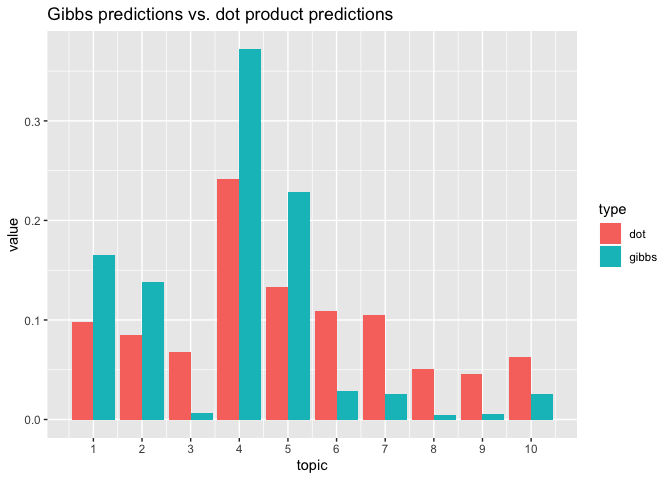
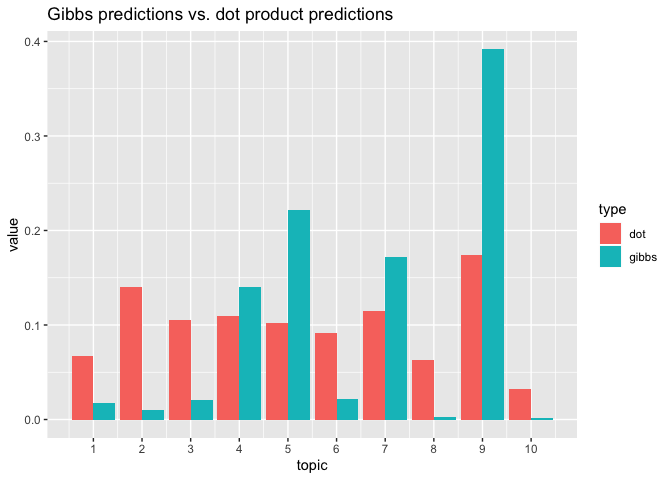
update readme to explicitly call tidylda::update to avoid clashes with stats::update

diff --git a/README.md b/README.md
@@ -70,12 +70,12 @@ unseen documents, and update the model with those new documents.
 ``` r
 library(tidytext)
 library(tidyverse)
-#> ── Attaching packages ────────────────────────────────────────────────────── tidyverse 1.3.0 ──
+#> ── Attaching packages ─────────────────────────────────────────────────── tidyverse 1.3.0 ──
 #> ✓ ggplot2 3.2.1     ✓ purrr   0.3.3
 #> ✓ tibble  2.1.3     ✓ dplyr   0.8.3
 #> ✓ tidyr   1.0.0     ✓ stringr 1.4.0
 #> ✓ readr   1.3.1     ✓ forcats 0.4.0
-#> ── Conflicts ───────────────────────────────────────────────────────── tidyverse_conflicts() ──
+#> ── Conflicts ────────────────────────────────────────────────────── tidyverse_conflicts() ──
 #> x dplyr::filter() masks stats::filter()
 #> x dplyr::lag()    masks stats::lag()
 library(tidylda)
@@ -168,52 +168,52 @@ print(lda)
 #>     beta = 0.05, optimize_alpha = FALSE, calc_likelihood = TRUE, 
 #>     calc_r2 = TRUE, return_data = FALSE)
 #> 
-#> The model's R-squared is  0.2841 
+#> The model's R-squared is  0.2831 
 #> The most prevalent topics are:
 #> # A tibble: 10 x 4
-#>    topic prevalence coherence top_terms                           
-#>    <dbl>      <dbl>     <dbl> <chr>                               
-#>  1     4      13.6   -0.0227  aim, plasticity, sud, ...           
-#>  2     8      13.1    0.144   the, diabetes, program, ...         
-#>  3     6      11.5    0.218   imaging, cancer, cells, ...         
-#>  4     9      10.0    0.263   lung, cells, in, ...                
-#>  5     7       9.57   0.619   c, cmybp, cmybp c, ...              
-#>  6     3       9.16   0.00103 sleep, the, research, ...           
-#>  7     5       9.12   0.00148 the, cns, disease, ...              
-#>  8     1       8.61   0.178   infection, cdk5, brain, ...         
-#>  9     2       8.16   0.544   mitochondrial, metabolic, redox, ...
-#> 10    10       7.18   0.0947  the, ppg, data, ...                 
+#>    topic prevalence coherence top_terms                         
+#>    <dbl>      <dbl>     <dbl> <chr>                             
+#>  1     3      12.1     0.379  sleep, plasticity, memory, ...    
+#>  2     2      12.0     0.346  mitochondrial, the, metabolic, ...
+#>  3     9      10.9     0.176  cells, cell, in, ...              
+#>  4     4      10.6     0.236  c, cmybp, cmybp c, ...            
+#>  5     6      10.5     0.211  imaging, cancer, the, ...         
+#>  6     8      10.4     0.355  diabetes, cancer, numeracy, ...   
+#>  7     1       9.36    0.155  dcis, responses, v4, ...          
+#>  8    10       9.28    0.459  cdk5, stiffening, wall, ...       
+#>  9     7       7.87    0.446  sud, risk, research, ...          
+#> 10     5       6.93    0.0840 the, cns, pd, ...                 
 #> 
 #> The most coherent topics are:
 #> # A tibble: 10 x 4
-#>    topic prevalence coherence top_terms                           
-#>    <dbl>      <dbl>     <dbl> <chr>                               
-#>  1     7       9.57   0.619   c, cmybp, cmybp c, ...              
-#>  2     2       8.16   0.544   mitochondrial, metabolic, redox, ...
-#>  3     9      10.0    0.263   lung, cells, in, ...                
-#>  4     6      11.5    0.218   imaging, cancer, cells, ...         
-#>  5     1       8.61   0.178   infection, cdk5, brain, ...         
-#>  6     8      13.1    0.144   the, diabetes, program, ...         
-#>  7    10       7.18   0.0947  the, ppg, data, ...                 
-#>  8     5       9.12   0.00148 the, cns, disease, ...              
-#>  9     3       9.16   0.00103 sleep, the, research, ...           
-#> 10     4      13.6   -0.0227  aim, plasticity, sud, ...
+#>    topic prevalence coherence top_terms                         
+#>    <dbl>      <dbl>     <dbl> <chr>                             
+#>  1    10       9.28    0.459  cdk5, stiffening, wall, ...       
+#>  2     7       7.87    0.446  sud, risk, research, ...          
+#>  3     3      12.1     0.379  sleep, plasticity, memory, ...    
+#>  4     8      10.4     0.355  diabetes, cancer, numeracy, ...   
+#>  5     2      12.0     0.346  mitochondrial, the, metabolic, ...
+#>  6     4      10.6     0.236  c, cmybp, cmybp c, ...            
+#>  7     6      10.5     0.211  imaging, cancer, the, ...         
+#>  8     9      10.9     0.176  cells, cell, in, ...              
+#>  9     1       9.36    0.155  dcis, responses, v4, ...          
+#> 10     5       6.93    0.0840 the, cns, pd, ...
 
 # it comes with its own summary matrix that's printed out with print(), above
 lda$summary
 #> # A tibble: 10 x 4
-#>    topic prevalence coherence top_terms                           
-#>    <dbl>      <dbl>     <dbl> <chr>                               
-#>  1     1       8.61   0.178   infection, cdk5, brain, ...         
-#>  2     2       8.16   0.544   mitochondrial, metabolic, redox, ...
-#>  3     3       9.16   0.00103 sleep, the, research, ...           
-#>  4     4      13.6   -0.0227  aim, plasticity, sud, ...           
-#>  5     5       9.12   0.00148 the, cns, disease, ...              
-#>  6     6      11.5    0.218   imaging, cancer, cells, ...         
-#>  7     7       9.57   0.619   c, cmybp, cmybp c, ...              
-#>  8     8      13.1    0.144   the, diabetes, program, ...         
-#>  9     9      10.0    0.263   lung, cells, in, ...                
-#> 10    10       7.18   0.0947  the, ppg, data, ...
+#>    topic prevalence coherence top_terms                         
+#>    <dbl>      <dbl>     <dbl> <chr>                             
+#>  1     1       9.36    0.155  dcis, responses, v4, ...          
+#>  2     2      12.0     0.346  mitochondrial, the, metabolic, ...
+#>  3     3      12.1     0.379  sleep, plasticity, memory, ...    
+#>  4     4      10.6     0.236  c, cmybp, cmybp c, ...            
+#>  5     5       6.93    0.0840 the, cns, pd, ...                 
+#>  6     6      10.5     0.211  imaging, cancer, the, ...         
+#>  7     7       7.87    0.446  sud, risk, research, ...          
+#>  8     8      10.4     0.355  diabetes, cancer, numeracy, ...   
+#>  9     9      10.9     0.176  cells, cell, in, ...              
+#> 10    10       9.28    0.459  cdk5, stiffening, wall, ...
 
 
 # inspect the individual matrices
@@ -223,16 +223,16 @@ tidy_theta
 #> # A tibble: 500 x 3
 #>    document topic   theta
 #>    <chr>    <dbl>   <dbl>
-#>  1 8574224      1 0.00739
+#>  1 8574224      1 0.0274 
 #>  2 8574224      2 0.00217
 #>  3 8574224      3 0.00304
-#>  4 8574224      4 0.929  
-#>  5 8574224      5 0.0257 
+#>  4 8574224      4 0.00217
+#>  5 8574224      5 0.00217
 #>  6 8574224      6 0.00217
-#>  7 8574224      7 0.00217
-#>  8 8574224      8 0.0222 
-#>  9 8574224      9 0.00217
-#> 10 8574224     10 0.00391
+#>  7 8574224      7 0.952  
+#>  8 8574224      8 0.00391
+#>  9 8574224      9 0.00304
+#> 10 8574224     10 0.00217
 #> # … with 490 more rows
 
 tidy_phi <- tidy(lda, matrix = "phi")
@@ -241,16 +241,16 @@ tidy_phi
 #> # A tibble: 15,970 x 3
 #>    topic token              phi
 #>    <dbl> <chr>            <dbl>
-#>  1     1 adolescence  0.0000771
-#>  2     1 age          0.0000771
-#>  3     1 application  0.0000771
-#>  4     1 depressive   0.0000771
-#>  5     1 disorder     0.0000771
-#>  6     1 emotionality 0.000200 
-#>  7     1 information  0.00341  
-#>  8     1 mdd          0.0000771
-#>  9     1 onset        0.0000771
-#> 10     1 onset.mdd    0.0000771
+#>  1     1 adolescence  0.0000715
+#>  2     1 age          0.0000715
+#>  3     1 application  0.0000715
+#>  4     1 depressive   0.0000715
+#>  5     1 disorder     0.0000715
+#>  6     1 emotionality 0.0000715
+#>  7     1 information  0.00322  
+#>  8     1 mdd          0.0000715
+#>  9     1 onset        0.0000715
+#> 10     1 onset.mdd    0.0000715
 #> # … with 15,960 more rows
 
 tidy_gamma <- tidy(lda, matrix = "gamma")
@@ -259,16 +259,16 @@ tidy_gamma
 #> # A tibble: 15,970 x 3
 #>    topic token          gamma
 #>    <dbl> <chr>          <dbl>
-#>  1     1 adolescence  0.00750
-#>  2     1 age          0.00873
-#>  3     1 application  0.00759
-#>  4     1 depressive   0.0193 
-#>  5     1 disorder     0.0193 
-#>  6     1 emotionality 0.0502 
-#>  7     1 information  0.291  
-#>  8     1 mdd          0.0107 
-#>  9     1 onset        0.00747
-#> 10     1 onset.mdd    0.0193 
+#>  1     1 adolescence  0.00781
+#>  2     1 age          0.00927
+#>  3     1 application  0.00774
+#>  4     1 depressive   0.0203 
+#>  5     1 disorder     0.0203 
+#>  6     1 emotionality 0.0203 
+#>  7     1 information  0.300  
+#>  8     1 mdd          0.0113 
+#>  9     1 onset        0.00789
+#> 10     1 onset.mdd    0.0203 
 #> # … with 15,960 more rows
 
 ### predictions on held out data ---
@@ -294,7 +294,9 @@ tibble(topic = 1:ncol(p_gibbs), gibbs = p_gibbs[1,], dot = p_dot[1, ]) %>%
 
 ### updating the model ----
 # now that you have new documents, maybe you want to fold them into the model?
-lda2 <- update(
+# note as of this writing you have to call tidylda::update explicitly to avoid 
+# clashes with stats::update. Will fix soon-ish
+lda2 <- tidylda::update(
   object = lda, 
   dtm = d, # save me the trouble of manually-combining these by just using d
   iterations = 200, 
@@ -322,40 +324,39 @@ glance(lda2)
 
 print(lda2)
 #> A Latent Dirichlet Allocation Model of  10 topics,  99  documents, and  3081  tokens:
-#> tidylda(dtm = d, k = 10, iterations = 200, burnin = 175, alpha = 0.1, 
-#>     beta = 0.05, optimize_alpha = FALSE, calc_likelihood = TRUE, 
-#>     calc_r2 = TRUE, return_data = FALSE)
+#> update.tidylda(object = lda, dtm = d, iterations = 200, burnin = 175, 
+#>     calc_likelihood = TRUE, calc_r2 = TRUE)
 #> 
-#> The model's R-squared is  0.1502 
+#> The model's R-squared is  0.1637 
 #> The most prevalent topics are:
 #> # A tibble: 10 x 4
-#>    topic prevalence coherence top_terms                      
-#>    <dbl>      <dbl>     <dbl> <chr>                          
-#>  1     7      12.8     0.0920 research, the, core, ...       
-#>  2     8      11.4     0.131  cell, cells, cancer, ...       
-#>  3    10      11.3     0.175  research, the, disparities, ...
-#>  4     6      10.4     0.107  infection, cells, sleep, ...   
-#>  5     4      10.1     0.0555 the, treatment, data, ...      
-#>  6     9       9.83    0.0419 health, the, diabetes, ...     
-#>  7     1       9.51    0.0795 the, ptc, data, ...            
-#>  8     3       8.51    0.161  risk, studies, to, ...         
-#>  9     5       8.17    0.0227 aim, sud, the, ...             
-#> 10     2       8.09    0.141  c, cancer, the, ...            
+#>    topic prevalence coherence top_terms                    
+#>    <dbl>      <dbl>     <dbl> <chr>                        
+#>  1     9      12.4     0.18   cell, cells, mast, ...       
+#>  2     6      12.2     0.0924 research, the, program, ...  
+#>  3     7      11.2     0.105  research, core, the, ...     
+#>  4     5      10.6     0.0489 the, clinical, cancer, ...   
+#>  5     3      10.5     0.182  ptc, sleep, to, ...          
+#>  6    10      10.1     0.05   muscle, study, gut, ...      
+#>  7     8       8.91    0.127  health, risk, diabetes, ...  
+#>  8     2       8.45    0.136  the, mitochondrial, data, ...
+#>  9     4       8.15    0.293  c, the, cmybp, ...           
+#> 10     1       7.59    0.0876 influenza, the, dcis, ...    
 #> 
 #> The most coherent topics are:
 #> # A tibble: 10 x 4
-#>    topic prevalence coherence top_terms                      
-#>    <dbl>      <dbl>     <dbl> <chr>                          
-#>  1    10      11.3     0.175  research, the, disparities, ...
-#>  2     3       8.51    0.161  risk, studies, to, ...         
-#>  3     2       8.09    0.141  c, cancer, the, ...            
-#>  4     8      11.4     0.131  cell, cells, cancer, ...       
-#>  5     6      10.4     0.107  infection, cells, sleep, ...   
-#>  6     7      12.8     0.0920 research, the, core, ...       
-#>  7     1       9.51    0.0795 the, ptc, data, ...            
-#>  8     4      10.1     0.0555 the, treatment, data, ...      
-#>  9     9       9.83    0.0419 health, the, diabetes, ...     
-#> 10     5       8.17    0.0227 aim, sud, the, ...
+#>    topic prevalence coherence top_terms                    
+#>    <dbl>      <dbl>     <dbl> <chr>                        
+#>  1     4       8.15    0.293  c, the, cmybp, ...           
+#>  2     3      10.5     0.182  ptc, sleep, to, ...          
+#>  3     9      12.4     0.18   cell, cells, mast, ...       
+#>  4     2       8.45    0.136  the, mitochondrial, data, ...
+#>  5     8       8.91    0.127  health, risk, diabetes, ...  
+#>  6     7      11.2     0.105  research, core, the, ...     
+#>  7     6      12.2     0.0924 research, the, program, ...  
+#>  8     1       7.59    0.0876 influenza, the, dcis, ...    
+#>  9    10      10.1     0.05   muscle, study, gut, ...      
+#> 10     5      10.6     0.0489 the, clinical, cancer, ...
 
 # how does that compare to the old model?
 print(lda)
@@ -364,36 +365,36 @@ print(lda)
 #>     beta = 0.05, optimize_alpha = FALSE, calc_likelihood = TRUE, 
 #>     calc_r2 = TRUE, return_data = FALSE)
 #> 
-#> The model's R-squared is  0.2841 
+#> The model's R-squared is  0.2831 
 #> The most prevalent topics are:
 #> # A tibble: 10 x 4
-#>    topic prevalence coherence top_terms                           
-#>    <dbl>      <dbl>     <dbl> <chr>                               
-#>  1     4      13.6   -0.0227  aim, plasticity, sud, ...           
-#>  2     8      13.1    0.144   the, diabetes, program, ...         
-#>  3     6      11.5    0.218   imaging, cancer, cells, ...         
-#>  4     9      10.0    0.263   lung, cells, in, ...                
-#>  5     7       9.57   0.619   c, cmybp, cmybp c, ...              
-#>  6     3       9.16   0.00103 sleep, the, research, ...           
-#>  7     5       9.12   0.00148 the, cns, disease, ...              
-#>  8     1       8.61   0.178   infection, cdk5, brain, ...         
-#>  9     2       8.16   0.544   mitochondrial, metabolic, redox, ...
-#> 10    10       7.18   0.0947  the, ppg, data, ...                 
+#>    topic prevalence coherence top_terms                         
+#>    <dbl>      <dbl>     <dbl> <chr>                             
+#>  1     3      12.1     0.379  sleep, plasticity, memory, ...    
+#>  2     2      12.0     0.346  mitochondrial, the, metabolic, ...
+#>  3     9      10.9     0.176  cells, cell, in, ...              
+#>  4     4      10.6     0.236  c, cmybp, cmybp c, ...            
+#>  5     6      10.5     0.211  imaging, cancer, the, ...         
+#>  6     8      10.4     0.355  diabetes, cancer, numeracy, ...   
+#>  7     1       9.36    0.155  dcis, responses, v4, ...          
+#>  8    10       9.28    0.459  cdk5, stiffening, wall, ...       
+#>  9     7       7.87    0.446  sud, risk, research, ...          
+#> 10     5       6.93    0.0840 the, cns, pd, ...                 
 #> 
 #> The most coherent topics are:
 #> # A tibble: 10 x 4
-#>    topic prevalence coherence top_terms                           
-#>    <dbl>      <dbl>     <dbl> <chr>                               
-#>  1     7       9.57   0.619   c, cmybp, cmybp c, ...              
-#>  2     2       8.16   0.544   mitochondrial, metabolic, redox, ...
-#>  3     9      10.0    0.263   lung, cells, in, ...                
-#>  4     6      11.5    0.218   imaging, cancer, cells, ...         
-#>  5     1       8.61   0.178   infection, cdk5, brain, ...         
-#>  6     8      13.1    0.144   the, diabetes, program, ...         
-#>  7    10       7.18   0.0947  the, ppg, data, ...                 
-#>  8     5       9.12   0.00148 the, cns, disease, ...              
-#>  9     3       9.16   0.00103 sleep, the, research, ...           
-#> 10     4      13.6   -0.0227  aim, plasticity, sud, ...
+#>    topic prevalence coherence top_terms                         
+#>    <dbl>      <dbl>     <dbl> <chr>                             
+#>  1    10       9.28    0.459  cdk5, stiffening, wall, ...       
+#>  2     7       7.87    0.446  sud, risk, research, ...          
+#>  3     3      12.1     0.379  sleep, plasticity, memory, ...    
+#>  4     8      10.4     0.355  diabetes, cancer, numeracy, ...   
+#>  5     2      12.0     0.346  mitochondrial, the, metabolic, ...
+#>  6     4      10.6     0.236  c, cmybp, cmybp c, ...            
+#>  7     6      10.5     0.211  imaging, cancer, the, ...         
+#>  8     9      10.9     0.176  cells, cell, in, ...              
+#>  9     1       9.36    0.155  dcis, responses, v4, ...          
+#> 10     5       6.93    0.0840 the, cns, pd, ...
 ```
 
 I plan to have more analyses and a fuller accounting of the options of
